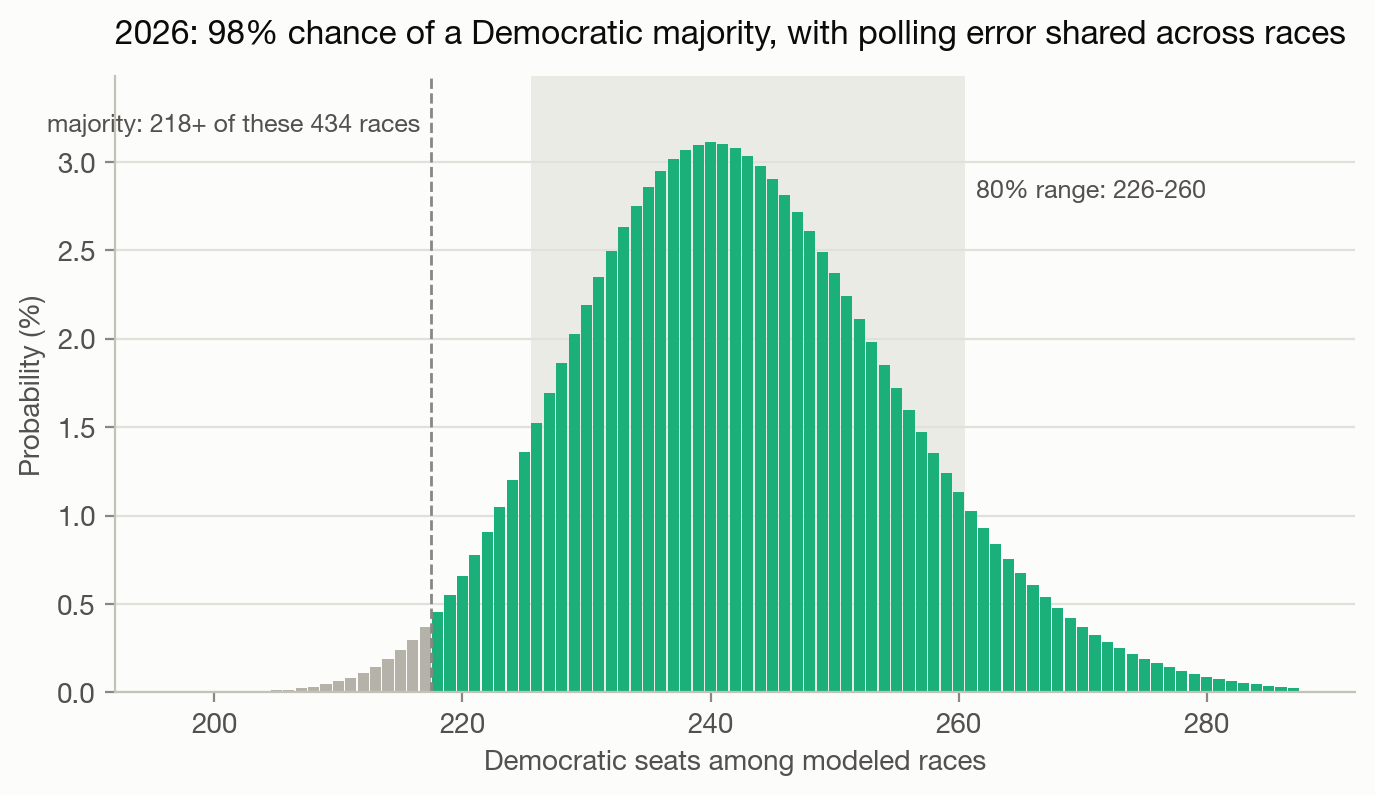
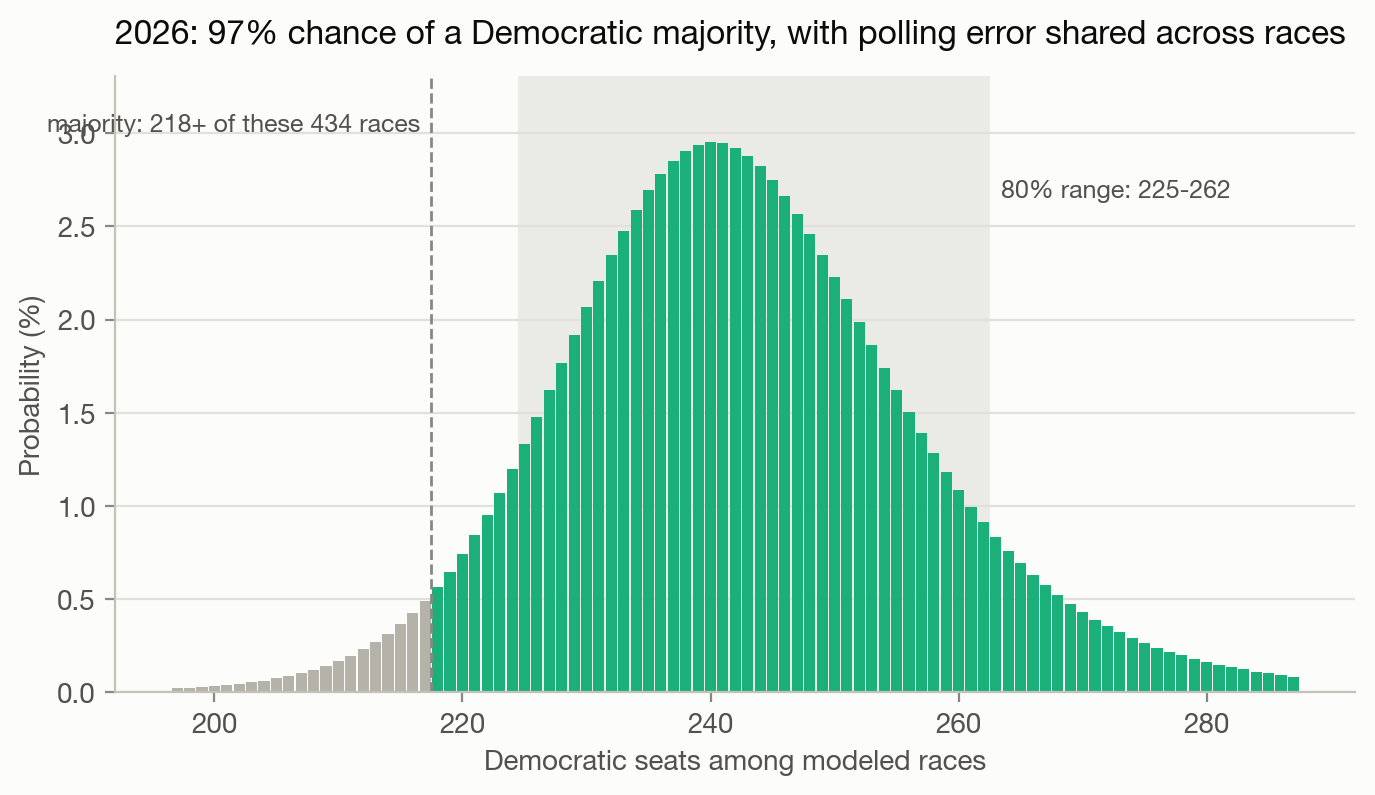
Treat the size of the national polling miss as uncertain in the seat total
sigma_national is the spread of only seven cycle averages (90% range
1.9-5.4 points around 2.8), but the seat distribution treated it as known.
Averaging a normal national miss over that uncertainty gives a Student t
with cycles - 1 degrees of freedom, so big misses are more likely.

- fit_baseline: return national_df = cycles - 1.
- seat_distribution: draw the national miss from a t with national_df
  (Gauss-Hermite nodes mapped through t quantiles; 121 nodes, enough for
  1 df in the 2016 backtest). Floor the seat variance, which far-tail
  nodes that settle every race drove to zero or slightly negative.
- backtest, forecast: also return the seat total with the size treated as
  known, for comparison.
- report: 2026 majority 98% -> 97% (80% range 225-262); backtest 80%
  ranges average 34 seats wide instead of 24 and still hold 4 of 5 years
  (2020 stays outside). Per-race probabilities, the allocation and the
  backtest scores still use the point estimate, now said in Limitations.
  Two stale "section 6" references now point to section 7.

diff --git a/campaign/report.py b/campaign/report.py
@@ -5,6 +5,7 @@ from pathlib import Path
 
 import numpy as np
 import pandas as pd
+from scipy.stats import chi2
 
 from .backtest import HALF_SATURATIONS, SCALES
 from .break_even import MAX_SCALE
@@ -88,6 +89,10 @@ def report(races, backtests, fc, games, media, mixes):
                             f"{safe.dccc[safe.status == 'D incumbent'].sum() / max(safe.dccc.sum(), 1):.0%} | "
                             f"{len(lost)}{': ' + ', '.join(lost) if lost else ''} |")
     s26 = fc["seats"]
+    nat_lo, nat_hi = (m["sigma_national"] * np.sqrt(m["national_df"] / chi2.ppf(q, m["national_df"])) for q in (0.95, 0.05))
+    known = [b["seats_known_sigma"] for b in backtests]
+    covered_known = sum(k["p10"] <= k["actual"] <= k["p90"] for k in known)
+    width, width_known = (np.mean([s["p90"] - s["p10"] for s in group]) for group in ([b["seats"] for b in backtests], known))
     changed = set(maps[maps.changed].district_id)
     moved = fc["races"][fc["races"].district_id.isin(changed) & (fc["races"].status != "Open")]
     in_play_moved = moved[moved.p.between(0.2, 0.8) | moved.p_as_open.between(0.2, 0.8)].sort_values("p")
@@ -274,7 +279,9 @@ P(Democrat wins race i) = Phi(expected margin_i / sigma)
 
 Each point of PVI is worth {c['pvi']:.1f} points of margin. Having the Democrat rather than the Republican as the incumbent is worth {c['d_incumbent']:.0f} points, {-c['fresh_d']:.0f} less for a first-term Democrat; first-term Republicans show no such gap ({c['fresh_r']:+.1f}). About a fifth of how far a seat's party ran ahead of its lean last time carries into the next election ({c['over_inc']:.2f} with the incumbent running again, {c['over_open']:.2f} for an open seat). The generic ballot is fixed at a 1:1 pass-through rather than estimated: with one national value per cycle, a fitted slope would mostly chase polling misses. sigma is the residual spread, so it includes those misses; that is the right uncertainty for a forecast made before the votes are counted.
 
-**National, state and district error.** Part of every race's error is shared: in a year the polls miss, they miss everywhere at once, and races in the same state also miss together. Splitting it out, sigma^2 = sigma_national^2 + sigma_state^2 + sigma_district^2. sigma_national = {m['sigma_national']:.1f} points is the spread of each cycle's average miss. sigma_state = {m['sigma_state']:.1f} is how much each state's average miss varies beyond what its number of races explains, and sigma_district = {m['sigma_district']:.1f} is the rest. A single race's probability needs only the total. The seat total needs the split: conditional on the national and state misses, races are independent, and averaging over both gives the seat distribution in section 6.
+**National, state and district error.** Part of every race's error is shared: in a year the polls miss, they miss everywhere at once, and races in the same state also miss together. Splitting it out, sigma^2 = sigma_national^2 + sigma_state^2 + sigma_district^2. sigma_national = {m['sigma_national']:.1f} points is the spread of each cycle's average miss. sigma_state = {m['sigma_state']:.1f} is how much each state's average miss varies beyond what its number of races explains, and sigma_district = {m['sigma_district']:.1f} is the rest. A single race's probability needs only the total. The seat total needs the split: conditional on the national and state misses, races are independent, and averaging over both gives the seat distribution in section 7.
+
+sigma_national rests on only {len(m['cycles'])} cycle averages, so it is itself uncertain: anywhere from {nat_lo:.1f} to {nat_hi:.1f} points is plausible (90% range). The seat total doesn't treat it as known. Averaging a normal national miss over that uncertainty gives a Student t with {m['national_df']} degrees of freedom, so a big miss is more likely than the point estimate alone says, and the fewer cycles behind the estimate, the more so. Each race's own probability, and so the allocation, still uses the point estimate.
 
 ![PVI vs margin](figures/1_pvi_vs_margin.png)
 
@@ -319,13 +326,13 @@ Averaged over {years}, log loss is {ll_mean['hindsight']:.3f} with hindsight and
 
 ![Calibration](figures/3_calibration.png)
 
-**The seat total, with the national and state errors shared across races:**
+**The seat total, with the national and state errors shared across races and the size of the national error uncertain:**
 
 | Year | Expected D seats | 80% range | Actual | Needed for majority | P(D majority) | Majority won by |
 |---|---|---|---|---|---|---|
 {chr(10).join(seat_rows)}
 
-The 80% range held the actual result in {covered} of {len(backtests)} years, and the favorite for the majority won in {calls_right} of {len(backtests)}. Outside the range: {missed_text}. ("Needed" counts only modeled races; seats outside the model are credited by their partisan lean.)
+The 80% range held the actual result in {covered} of {len(backtests)} years, and the favorite for the majority won in {calls_right} of {len(backtests)}. Outside the range: {missed_text}. ("Needed" counts only modeled races; seats outside the model are credited by their partisan lean.) Each backtest's national error rests only on the cycles before it: {len(backtests[0]['model']['cycles'])} for {backtests[0]['cycle']}, {len(backtests[-1]['model']['cycles'])} for {backtests[-1]['cycle']}. Treating its size as known instead, the 80% ranges average {width_known:.0f} seats wide rather than {width:.0f} and hold the result in {covered_known} of {len(backtests)} years. The fatter tails also pull each race a little toward even, so expected seats here can differ by a seat or two from the race-by-race total in the first table.
 
 ## 5. Was DCCC's money well placed?
 
@@ -407,7 +414,7 @@ Forecast from a baseline fit on all {m['cycles'][0]}-{m['cycles'][-1]} races, at
 |---|---|---|---|
 | Expected Democratic seats | {seats[round(gb - 3, 1)]:.0f} | {seats[round(gb, 1)]:.0f} | {seats[round(gb + 3, 1)]:.0f} |
 
-Averaging over the national and state errors instead of fixing them gives the full distribution. The model puts Democrats at {s26['mean']:.0f} seats among modeled races, an 80% range of {s26['p10']}-{s26['p90']}, and a {s26['p_majority']:.0%} chance of reaching the {s26['need']} they need for a majority. Treat that as optimistic. The national error is estimated from only seven elections, and normal tails understate big misses (section 4). A 4-point polling miss like 2020's would leave Democrats near {seats[round(gb - 4, 1)]:.0f} seats.
+Averaging over the national and state errors instead of fixing them gives the full distribution. The model puts Democrats at {s26['mean']:.0f} seats among modeled races, an 80% range of {s26['p10']}-{s26['p90']}, and a {s26['p_majority']:.0%} chance of reaching the {s26['need']} they need for a majority. That already allows for the size of a national miss being estimated from only {len(m['cycles'])} elections (section 3); treating it as known would give {fc['seats_known_sigma']['p_majority']:.0%}. It is still likely optimistic: the generic ballot here is the final average, not one a September decision could see, and the state and district errors are still assumed normal. A 4-point polling miss like 2020's would leave Democrats near {seats[round(gb - 4, 1)]:.0f} seats.
 
 ![Seat distribution](figures/9_seat_distribution.png)
 
@@ -428,10 +435,10 @@ Individual races move {bound_swing.min() * 100:.0f}-{bound_swing.max() * 100:.0f
 - **The spending effect is assumed.** The allocation results depend on it, and public data can't pin it down. Section 5 adds two readings that need less of it: how strong it would have to be for reallocating to matter, and what DCCC's own allocation implies. Both still assume the same curve in every race, and that each party's money moves the margin independently of the other's.
 - **Likely R seats are overrated**, at about {pooled[pooled.tier == 'Likely R'].p.mean():.0%} predicted against {(pooled[pooled.tier == 'Likely R'].margin > 0).mean():.0%} actual. Most of the gap is 2020 ({lr20.p.mean():.0%} predicted, {(lr20.margin > 0).mean():.0%} actual), the national polling miss again, rather than a problem in deep-red seats specifically.
 - **The incumbency effect has shrunk.** Fit on {first}-2016 alone, having the Democrat rather than the Republican as the incumbent is worth {early['d_incumbent']:.0f} points; on 2018-{last}, {late['d_incumbent']:.0f}. The model pools every cycle and gives {fc['cycle']} incumbents {c['d_incumbent']:.0f} points, more than recent cycles alone would. Weighting recent cycles more was tested while building this repo and forecast worse forward in time: the fits got noisy and overconfident. The first-term flag captures the part of the decline that can be predicted.
-- **The incumbency effect is learned from incumbents running in their own districts**, so it is probably too large for members on redrawn {fc['cycle']} maps (bounds in section 6).
+- **The incumbency effect is learned from incumbents running in their own districts**, so it is probably too large for members on redrawn {fc['cycle']} maps (bounds in section 7).
 - **{fc['cycle']} nominees are the top spenders reported so far** until official results name them, and their money counts through June 30, as in past cycles. Where the top spender had no House report through June 30 (a Senate run, a campaign that ended, a primary loser), the actual nominees were looked up by hand, with sources, in [`data/nominees_{fc['cycle']}.csv`](data/nominees_{fc['cycle']}.csv): {len(hand_checked)} districts, {', '.join(hand_checked)}. Other districts' top spenders were not checked one by one.{(' Still without a House report through June 30: ' + ', '.join(no_july.district_id) + '; that side counts as $0' + ('. ' + misjudged + (' are' if len(no_july_close) > 1 else ' is') + ' competitive and may be misjudged as a result.' if len(no_july_close) else '.')) if len(no_july) else ''}
 - **The generic ballot is the final pre-election average.** The money feature now uses only what a forecaster deciding on Sept 1 could see, but the national environment doesn't yet: a September decision would work from an earlier, less accurate average.
 - **TV-market data starts with the 2022 maps**, so market costs cover the 2022 and 2024 backtests only. Channels come from filers' own purpose descriptions; some say only "MEDIA" and stay unspecified.
-- **The national error is estimated from seven elections** and assumed normal, so big polling misses are likely more common than the seat distribution implies.
+- **The national error is estimated from {len(m['cycles'])} elections.** The seat totals allow for that (a Student t rather than a normal), but each race's own probability, and so the allocation and the backtest scores, still treats its size as known.
 """
     (ROOT / "REPORT.md").write_text(text)

diff --git a/campaign/seat_distribution.py b/campaign/seat_distribution.py
@@ -3,24 +3,34 @@ The distribution of the Democratic seat total, with the national polling
 error shared by every race and a state error shared by the races in each
 state:
 
-    eta ~ Normal(0, sigma_national^2)                      one draw per election
+    eta ~ sigma_national * t_df                            one draw per election
     u_s ~ Normal(0, sigma_state^2)                         one draw per state
     P(D wins i | eta, u) = Phi((mu_i + eta + u_s(i)) / sigma_district)
+
+sigma_national is the spread of only a handful of cycle averages, so it
+isn't treated as known. A normal miss averaged over how uncertain
+sigma_national is (df = cycles - 1) is a Student t with df degrees of
+freedom: a big miss is more likely than a normal with the point estimate
+says, and the fewer cycles behind it, the more so. This covers how big
+misses are, not the smaller uncertainty in where they center. Without a
+df, eta ~ Normal(0, sigma_national^2).
 
 Given eta, states are independent. Each state's seat count has a mean and
 variance found by integrating over its own draw u_s (law of total
 variance), and the seat total given eta is approximately Normal with the
-summed mean and variance. Integrating over eta (Gauss-Hermite quadrature)
-gives a mixture that is wider than the independent-races version: in a
-polling miss, many close races go the same way at once. Expected seats are
-identical either way.
+summed mean and variance. Integrating over eta (Gauss-Hermite quadrature,
+mapped onto the t through its quantiles) gives a mixture that is wider
+than the independent-races version: in a polling miss, many close races go
+the same way at once. With a normal eta, expected seats are identical
+either way. The t's fatter tails pull each race a little toward even, so
+the expected total can differ slightly from summing Phi(mu_i / sigma).
 """
 
 import numpy as np
 import pandas as pd
-from scipy.stats import norm
+from scipy.stats import norm, t
 
-NODES = 41
+NODES = 121            # enough for a t with 1 df (a backtest fit on two cycles)
 STATE_NODES = 21
 
 
@@ -28,12 +38,15 @@ def seat_distribution(mu, model, need, states=None):
     """`mu`: expected D margins for the modeled races; `need`: seats the
     party needs among them for a majority; `states`: each race's state
     (without it, or without a sigma_state in `model`, races share only the
-    national error). Returns p_majority, mean, the 10th/50th/90th
-    percentiles, and pmf (Series indexed by seat count)."""
+    national error); `model['national_df']`, if set, makes the national
+    miss a t with that many degrees of freedom. Returns p_majority, mean,
+    the 10th/50th/90th percentiles, and pmf (Series indexed by seat count)."""
     mu = np.asarray(mu, float)
     group = pd.factorize(np.asarray(states))[0] if states is not None else np.arange(len(mu))
-    eta, weights = np.polynomial.hermite_e.hermegauss(NODES)
+    z, weights = np.polynomial.hermite_e.hermegauss(NODES)
     weights = weights / weights.sum()
+    df = model.get("national_df")
+    eta = z if df is None else -np.sign(z) * t.ppf(norm.sf(np.abs(z)), df)    # the t quantile at Phi(z)
     u, u_weights = np.polynomial.hermite_e.hermegauss(STATE_NODES)
     u_weights = u_weights / u_weights.sum()
     shift = model["sigma_national"] * eta[None, :, None] + model.get("sigma_state", 0.0) * u[None, None, :]
@@ -43,7 +56,8 @@ def seat_distribution(mu, model, need, states=None):
     np.add.at(var_by_state, group, p * (1 - p))
     state_mean = seats_by_state @ u_weights
     state_var = (var_by_state + seats_by_state ** 2) @ u_weights - state_mean ** 2
-    mean, sd = state_mean.sum(0), np.sqrt(state_var.sum(0))
+    mean = state_mean.sum(0)
+    sd = np.sqrt(np.maximum(state_var.sum(0), 1e-12))     # a miss far in the tail settles every race
     seats = np.arange(len(mu) + 1)
     pmf = (norm.cdf((seats[:, None] + 0.5 - mean) / sd) - norm.cdf((seats[:, None] - 0.5 - mean) / sd)) @ weights
     pmf = pd.Series(pmf / pmf.sum(), index=seats)

diff --git a/campaign/backtest.py b/campaign/backtest.py
@@ -1,7 +1,8 @@
 """
 Score one completed cycle strictly forward in time: fit the baseline on
 every EARLIER cycle, forecast this one (each race, and the seat total with
-its shared national error), then ask how DCCC's own spending compares with
+its shared national error, also with that error's size treated as known
+for comparison), then ask how DCCC's own spending compares with
 the best allocation of the same budget under the spending assumption,
 across a grid of assumptions. The same forecast without the incumbent
 history features (first-term flags, last cycle's overperformance) is scored
@@ -65,8 +66,11 @@ def backtest(cycle, races):
     gain, test["model_dccc"] = grid[(SCALE_PTS, HALF_SATURATION)]
     break_even = {half: break_even_scale(test.mu, model["sigma"], test.dccc, cap, half) for half in HALF_SATURATIONS}
     belief = {half: implied_belief(test.mu, model["sigma"], test.dccc, half) for half in HALF_SATURATIONS}
-    seats = seat_distribution(test.mu, model, seats_needed(cycle, test.district_id), test.district_id.str[:2])
-    seats["actual"] = int((test.margin > 0).sum())
+    need, states = seats_needed(cycle, test.district_id), test.district_id.str[:2]
+    seats = seat_distribution(test.mu, model, need, states)
+    seats_known = seat_distribution(test.mu, {**model, "national_df": None}, need, states)
+    seats["actual"] = seats_known["actual"] = int((test.margin > 0).sum())
     return {"cycle": cycle, "model": model, "races": test, "calibration": calibration,
             "brier": scores["with"]["brier"], "scores": scores, "budget": budget, "gain": gain,
-            "grid": {k: v[0] for k, v in grid.items()}, "break_even": break_even, "belief": belief, "seats": seats}
+            "grid": {k: v[0] for k, v in grid.items()}, "break_even": break_even, "belief": belief, "seats": seats,
+            "seats_known_sigma": seats_known}

diff --git a/tests/test_model.py b/tests/test_model.py
@@ -64,6 +64,7 @@ def test_error_splits_into_national_state_and_district():
     races["margin"] += state.map(dict(zip(state.unique(), state_shocks)))
     model = fit_baseline(races)
     assert model["sigma_national"] == pytest.approx(np.std(list(shocks.values()), ddof=1), abs=0.5)
+    assert model["national_df"] == len(shocks) - 1
     assert model["sigma_state"] == pytest.approx(np.std(state_shocks, ddof=1), abs=0.5)
     assert model["sigma_district"] == pytest.approx(6, rel=0.1)
     assert model["sigma"] ** 2 == pytest.approx(
@@ -89,6 +90,18 @@ def test_state_error_widens_the_seat_total_but_not_its_mean():
     assert b["mean"] == pytest.approx(a["mean"], abs=1e-6)
     assert b["p90"] - b["p10"] > a["p90"] - a["p10"]
     assert seat_distribution(mu, national, need=21)["p10"] == a["p10"]     # no state error: grouping is irrelevant
+
+
+def test_uncertain_national_error_fattens_the_tails():
+    mu = np.linspace(-15, 25, 41)                                          # Democrats favored for the majority
+    known = {"sigma_national": 3.0, "sigma_district": 7.0}
+    few, many = seat_distribution(mu, {**known, "national_df": 3}, need=21), seat_distribution(mu, known, need=21)
+    assert few["p90"] - few["p10"] > many["p90"] - many["p10"]
+    assert few["p_majority"] < many["p_majority"]
+    lots = seat_distribution(mu, {**known, "national_df": 10_000}, need=21)
+    assert lots["p_majority"] == pytest.approx(many["p_majority"], abs=1e-3)   # a t with many cycles is the normal
+    cauchy = seat_distribution(mu, {**known, "national_df": 1}, need=21)
+    assert np.isfinite(cauchy["mean"]) and cauchy["pmf"].sum() == pytest.approx(1)
 
 
 def test_generic_ballot_is_a_one_for_one_swing():

diff --git a/campaign/fit_baseline.py b/campaign/fit_baseline.py
@@ -25,7 +25,8 @@ much each state's average residual varies beyond what its number of races
 explains: E[n_g * mean_g^2] = n_g * sigma_state^2 + sigma_district^2 over
 state-cycle groups g. Each race's own win probability only needs the total;
 the split matters for the seat total, because a miss moves many races at
-once.
+once. sigma_national rests on one average per cycle, so national_df =
+cycles - 1 says how far to trust it (seat_distribution.py).
 
 Uncontested races (|margin| >= 80) carry no information about competition
 and are left out of the fit.
@@ -41,7 +42,7 @@ UNCONTESTED = 80
 
 def fit_baseline(races, features=FEATURES):
     """{'coef': {name: value}, 'sigma', 'sigma_national', 'sigma_state',
-    'sigma_district', 'n', 'cycles'}"""
+    'sigma_district', 'national_df', 'n', 'cycles'}"""
     train = races[races.margin.abs() < UNCONTESTED]
     X = np.column_stack([np.ones(len(train))] + [train[f].to_numpy(float) for f in features])
     y = (train.margin - train.gb).to_numpy(float)
@@ -58,4 +59,5 @@ def fit_baseline(races, features=FEATURES):
     return {"coef": dict(zip(["intercept"] + features, coef)), "sigma": sigma,
             "sigma_national": national, "sigma_state": state,
             "sigma_district": float(np.sqrt(sigma ** 2 - national ** 2 - state ** 2)),
+            "national_df": train.cycle.nunique() - 1,
             "n": len(y), "cycles": sorted(int(c) for c in train.cycle.unique())}

diff --git a/campaign/forecast.py b/campaign/forecast.py
@@ -1,7 +1,8 @@
 """
 Forecast an upcoming cycle from a baseline fit on every completed cycle:
 each race's chance, the distribution of the seat total (a polling miss moves
-every race at once), and how expected seats move with the generic ballot.
+every race at once; also with the size of that miss treated as known, for
+comparison), and how expected seats move with the generic ballot.
 
 p_as_open is each race's chance with its incumbent treated as an open seat,
 a bound for incumbents on redrawn lines: the incumbency effect is learned
@@ -31,5 +32,8 @@ def forecast(races, cycle=2026):
     gb = float(fc.gb.iloc[0])
     swings = np.round(np.arange(-6, 6.01, 0.5), 1)
     by_gb = {round(gb + float(s), 1): float(norm.cdf((fc.mu + s) / model["sigma"]).sum()) for s in swings}
-    seats = seat_distribution(fc.mu, model, seats_needed(cycle, fc.district_id), fc.district_id.str[:2])
-    return {"cycle": cycle, "model": model, "races": fc, "gb": gb, "seats_by_gb": by_gb, "seats": seats}
+    need, states = seats_needed(cycle, fc.district_id), fc.district_id.str[:2]
+    seats = seat_distribution(fc.mu, model, need, states)
+    seats_known = seat_distribution(fc.mu, {**model, "national_df": None}, need, states)
+    return {"cycle": cycle, "model": model, "races": fc, "gb": gb, "seats_by_gb": by_gb, "seats": seats,
+            "seats_known_sigma": seats_known}

diff --git a/REPORT.md b/REPORT.md
@@ -8,7 +8,7 @@ Generated by `python run.py` on 2026-10-28. Every number below is computed by th
 - **DCCC's own spending was close to the best use of the same money, if you trust the polls.** At the default spending assumption, reallocating DCCC's budget would have gained +0.06 to +0.19 expected seats per cycle (average +0.13). Even the most generous assumption tested gains at most +1.75. The main difference: DCCC put 22% of its money into races already 80%+ likely to go Democratic, 73% of it protecting its own incumbents. In 2020 that caution was justified: 7 of those "safe" seats were lost anyway. And part of what looks like over-caution was the forecast's error, not DCCC's. First-term members, many elected in a wave, run well behind the usual incumbency edge. Flagging them, and carrying over each seat's last result, cuts the share of DCCC's 2020 money the forecast calls safe from 37% to 32% (figure 4, sections 4-5).
 - **Two readings that don't assume how strong party money is.** Reallocating DCCC's budget gains a full seat only if its first $1M in a race moves the margin 1.2-2.5 points, against 0.25 assumed. And DCCC's own split is optimal only if a dollar in its 80%+ races works 1.5-4.2 times as hard as one in its 20-80% races, or those seats are worth that much more to it (section 5).
 - **Neither strategy nor TV prices explain that defensive spending.** In a two-player game against NRCC, DCCC's best play puts at most 3% of its money in 80%+ seats (figure 5). DCCC already spends about half as much per race in the costliest TV markets, and pricing in market cost makes the model leave them almost entirely. No spender shifts toward mail where TV is most expensive (figure 6).
-- **2026: the national environment matters more than the new maps.** Redrawn maps in 9 states move Harris-won districts from 72 to 68 in those states (figure 7). At the current D+8.4 generic ballot, the model expects 243 Democratic seats among 434 modeled races (80% range 226-260), a 98% chance of a majority. A 3-point polling miss moves the expected total by about 13 seats (figures 8-9).
+- **2026: the national environment matters more than the new maps.** Redrawn maps in 9 states move Harris-won districts from 72 to 68 in those states (figure 7). At the current D+8.4 generic ballot, the model expects 243 Democratic seats among 434 modeled races (80% range 225-262), a 97% chance of a majority. A 3-point polling miss moves the expected total by about 13 seats (figures 8-9).
 
 ## 1. Data
 
@@ -77,7 +77,9 @@ P(Democrat wins race i) = Phi(expected margin_i / sigma)
 
 Each point of PVI is worth 1.6 points of margin. Having the Democrat rather than the Republican as the incumbent is worth 9 points, 3 less for a first-term Democrat; first-term Republicans show no such gap (+0.3). About a fifth of how far a seat's party ran ahead of its lean last time carries into the next election (0.23 with the incumbent running again, 0.25 for an open seat). The generic ballot is fixed at a 1:1 pass-through rather than estimated: with one national value per cycle, a fitted slope would mostly chase polling misses. sigma is the residual spread, so it includes those misses; that is the right uncertainty for a forecast made before the votes are counted.
 
-**National, state and district error.** Part of every race's error is shared: in a year the polls miss, they miss everywhere at once, and races in the same state also miss together. Splitting it out, sigma^2 = sigma_national^2 + sigma_state^2 + sigma_district^2. sigma_national = 2.8 points is the spread of each cycle's average miss. sigma_state = 3.5 is how much each state's average miss varies beyond what its number of races explains, and sigma_district = 6.2 is the rest. A single race's probability needs only the total. The seat total needs the split: conditional on the national and state misses, races are independent, and averaging over both gives the seat distribution in section 6.
+**National, state and district error.** Part of every race's error is shared: in a year the polls miss, they miss everywhere at once, and races in the same state also miss together. Splitting it out, sigma^2 = sigma_national^2 + sigma_state^2 + sigma_district^2. sigma_national = 2.8 points is the spread of each cycle's average miss. sigma_state = 3.5 is how much each state's average miss varies beyond what its number of races explains, and sigma_district = 6.2 is the rest. A single race's probability needs only the total. The seat total needs the split: conditional on the national and state misses, races are independent, and averaging over both gives the seat distribution in section 7.
+
+sigma_national rests on only 7 cycle averages, so it is itself uncertain: anywhere from 1.9 to 5.4 points is plausible (90% range). The seat total doesn't treat it as known. Averaging a normal national miss over that uncertainty gives a Student t with 6 degrees of freedom, so a big miss is more likely than the point estimate alone says, and the fewer cycles behind the estimate, the more so. Each race's own probability, and so the allocation, still uses the point estimate.
 
 ![PVI vs margin](figures/1_pvi_vs_margin.png)
 
@@ -134,17 +136,17 @@ Averaged over 2016-2024, log loss is 0.087 with hindsight and 0.088 without. On 
 
 ![Calibration](figures/3_calibration.png)
 
-**The seat total, with the national and state errors shared across races:**
+**The seat total, with the national and state errors shared across races and the size of the national error uncertain:**
 
 | Year | Expected D seats | 80% range | Actual | Needed for majority | P(D majority) | Majority won by |
 |---|---|---|---|---|---|---|
-| 2016 | 189 | 179-199 | 182 | 207 | 2% | Republicans |
-| 2018 | 226 | 213-240 | 235 | 218 | 80% | Democrats |
-| 2020 | 244 | 234-255 | 222 (outside) | 218 | >99% | Democrats |
-| 2022 | 207 | 192-221 | 211 | 217 | 20% | Republicans |
-| 2024 | 212 | 200-223 | 213 | 216 | 35% | Republicans |
+| 2016 | 191 | 169-215 | 182 | 207 | 13% | Republicans |
+| 2018 | 228 | 209-247 | 235 | 218 | 76% | Democrats |
+| 2020 | 244 | 232-257 | 222 (outside) | 218 | 98% | Democrats |
+| 2022 | 207 | 190-223 | 211 | 217 | 23% | Republicans |
+| 2024 | 212 | 199-225 | 213 | 216 | 36% | Republicans |
 
-The 80% range held the actual result in 4 of 5 years, and the favorite for the majority won in 5 of 5. Outside the range: 2020, when Democrats won 222 against a range of 234-255. ("Needed" counts only modeled races; seats outside the model are credited by their partisan lean.)
+The 80% range held the actual result in 4 of 5 years, and the favorite for the majority won in 5 of 5. Outside the range: 2020, when Democrats won 222 against a range of 232-257. ("Needed" counts only modeled races; seats outside the model are credited by their partisan lean.) Each backtest's national error rests only on the cycles before it: 2 for 2016, 6 for 2024. Treating its size as known instead, the 80% ranges average 24 seats wide rather than 34 and hold the result in 4 of 5 years. The fatter tails also pull each race a little toward even, so expected seats here can differ by a seat or two from the race-by-race total in the first table.
 
 ## 5. Was DCCC's money well placed?
 
@@ -245,7 +247,7 @@ Forecast from a baseline fit on all 2012-2024 races, at the current generic ball
 |---|---|---|---|
 | Expected Democratic seats | 231 | 243 | 256 |
 
-Averaging over the national and state errors instead of fixing them gives the full distribution. The model puts Democrats at 243 seats among modeled races, an 80% range of 226-260, and a 98% chance of reaching the 218 they need for a majority. Treat that as optimistic. The national error is estimated from only seven elections, and normal tails understate big misses (section 4). A 4-point polling miss like 2020's would leave Democrats near 227 seats.
+Averaging over the national and state errors instead of fixing them gives the full distribution. The model puts Democrats at 243 seats among modeled races, an 80% range of 225-262, and a 97% chance of reaching the 218 they need for a majority. That already allows for the size of a national miss being estimated from only 7 elections (section 3); treating it as known would give 98%. It is still likely optimistic: the generic ballot here is the final average, not one a September decision could see, and the state and district errors are still assumed normal. A 4-point polling miss like 2020's would leave Democrats near 227 seats.
 
 ![Seat distribution](figures/9_seat_distribution.png)
 
@@ -280,8 +282,8 @@ Individual races move 7-24 points, but the shifts run in both directions and lar
 - **The spending effect is assumed.** The allocation results depend on it, and public data can't pin it down. Section 5 adds two readings that need less of it: how strong it would have to be for reallocating to matter, and what DCCC's own allocation implies. Both still assume the same curve in every race, and that each party's money moves the margin independently of the other's.
 - **Likely R seats are overrated**, at about 12% predicted against 5% actual. Most of the gap is 2020 (26% predicted, 0% actual), the national polling miss again, rather than a problem in deep-red seats specifically.
 - **The incumbency effect has shrunk.** Fit on 2012-2016 alone, having the Democrat rather than the Republican as the incumbent is worth 16 points; on 2018-2024, 5. The model pools every cycle and gives 2026 incumbents 9 points, more than recent cycles alone would. Weighting recent cycles more was tested while building this repo and forecast worse forward in time: the fits got noisy and overconfident. The first-term flag captures the part of the decline that can be predicted.
-- **The incumbency effect is learned from incumbents running in their own districts**, so it is probably too large for members on redrawn 2026 maps (bounds in section 6).
+- **The incumbency effect is learned from incumbents running in their own districts**, so it is probably too large for members on redrawn 2026 maps (bounds in section 7).
 - **2026 nominees are the top spenders reported so far** until official results name them, and their money counts through June 30, as in past cycles. Where the top spender had no House report through June 30 (a Senate run, a campaign that ended, a primary loser), the actual nominees were looked up by hand, with sources, in [`data/nominees_2026.csv`](data/nominees_2026.csv): 13 districts, AR-04, CA-45, FL-06, GA-09, IL-07, ME-02, NC-04, NY-17, TX-07, TX-08, TX-30, VA-11, WI-07. Other districts' top spenders were not checked one by one.
 - **The generic ballot is the final pre-election average.** The money feature now uses only what a forecaster deciding on Sept 1 could see, but the national environment doesn't yet: a September decision would work from an earlier, less accurate average.
 - **TV-market data starts with the 2022 maps**, so market costs cover the 2022 and 2024 backtests only. Channels come from filers' own purpose descriptions; some say only "MEDIA" and stay unspecified.
-- **The national error is estimated from seven elections** and assumed normal, so big polling misses are likely more common than the seat distribution implies.
+- **The national error is estimated from 7 elections.** The seat totals allow for that (a Student t rather than a normal), but each race's own probability, and so the allocation and the backtest scores, still treats its size as known.

diff --git a/README.md b/README.md
@@ -15,7 +15,7 @@ Where should a party committee spend its money across House races? This repo ans
 - **Part of 2020's "safe" money wasn't over-caution.** Incumbency is worth less than half what it was before 2018, and first-term members elected in a wave run further behind still. Flagging them and carrying over each seat's last result improves the forecast out of sample (log loss 0.095 → 0.088), and cuts the share of DCCC's 2020 money the forecast calls safe from 37% to 32%.
 - **Turned around, the answer needs less of the spending assumption.** Reallocating would gain a full seat only if party money were 5 to 10 times as strong as assumed (DCCC's first $1M in a race moving it 1.2-2.5 points, not 0.25). DCCC's own split is optimal only if a dollar in races the forecast already gave Democrats at 80%+ works 1.5 to 4.2 times as hard as one in close races, a ratio that doesn't depend on how strong money is.
 - **Neither strategy nor TV prices explain that.** In a two-player game against NRCC, the equilibrium puts almost nothing in safe seats. DCCC already spends about half as much per race in the costliest TV markets. No spender shifts toward mail where TV is most expensive.
-- **2026:** the new maps cost Democrats about four Harris-won districts, but a 3-point move in the national environment swings about a dozen expected seats. With polling error shared nationally and within each state, the model gives Democrats a 98% chance of a majority, which is likely optimistic.
+- **2026:** the new maps cost Democrats about four Harris-won districts, but a 3-point move in the national environment swings about a dozen expected seats. With polling error shared nationally and within each state, and the size of a national miss treated as uncertain (it rests on seven elections), the model gives Democrats a 97% chance of a majority (98% if that size were known), which is still likely optimistic.
 
 ## Run it
 
